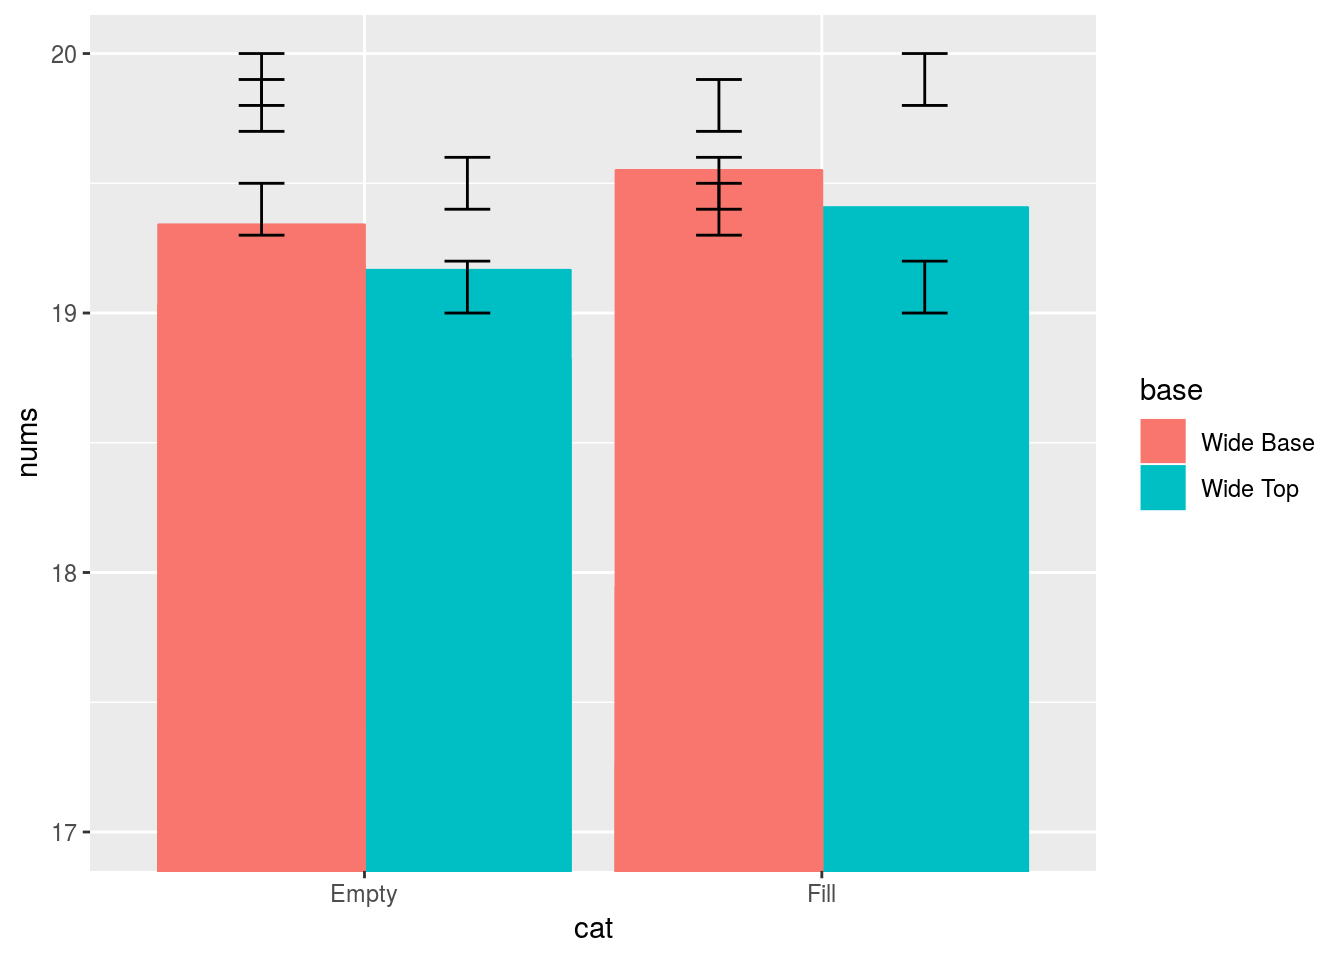
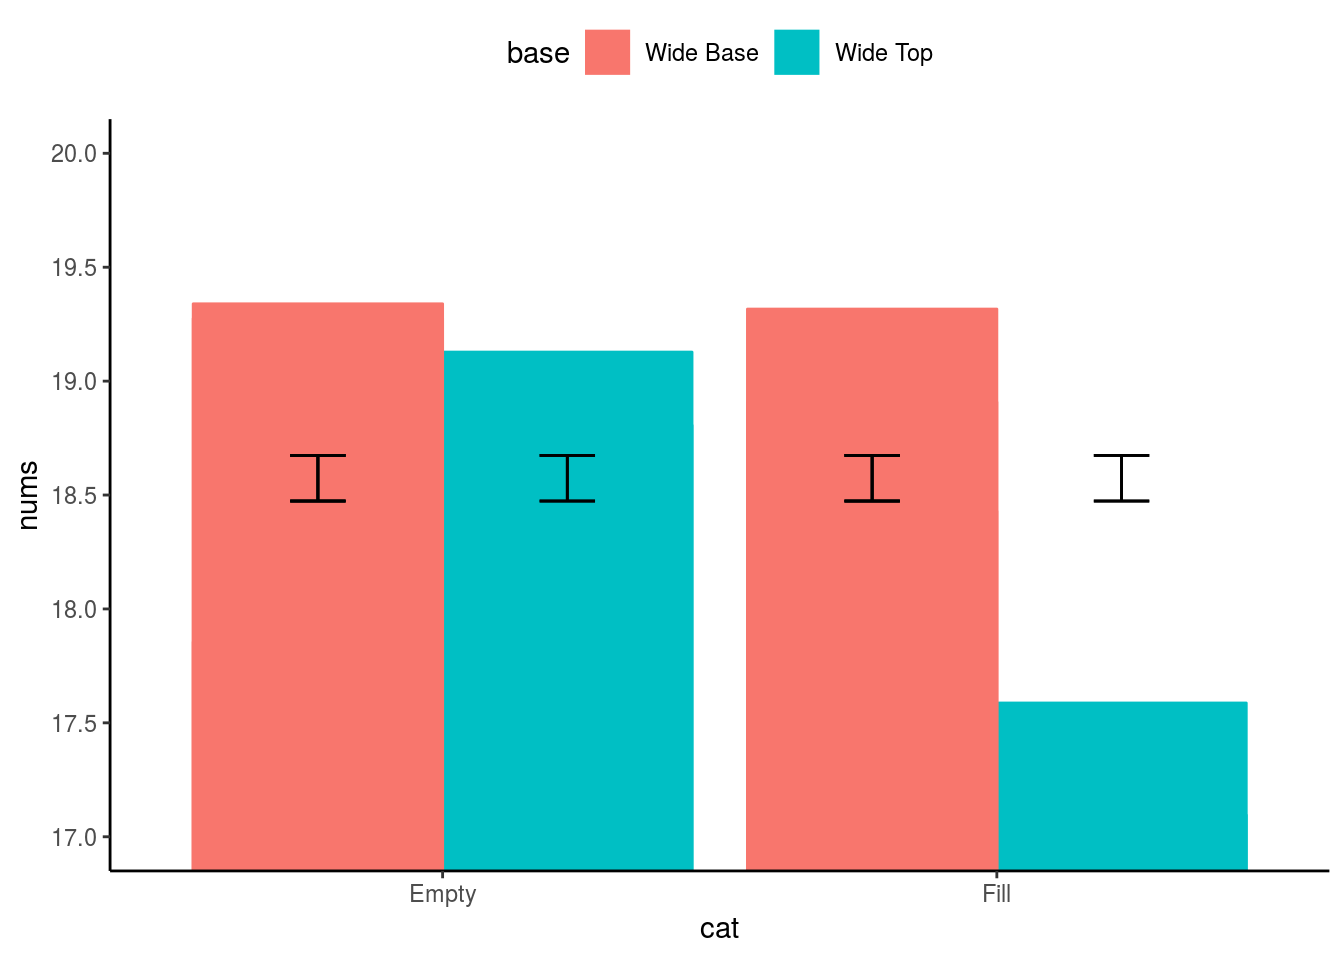
Understanding my error bar mistake--hard to fit the error bars on numbers that are always changing.

diff --git a/docs/Plots.html b/docs/Plots.html
@@ -479,11 +479,13 @@ ggplot(plot_dd,aes(cat,nums,group=base,color=base,fill=base))+geom_bar(stat = &q
 <pre class="r"><code>nums&lt;-runif(10,17,20)
 cat&lt;-as.factor(rep(c(&quot;Fill&quot;,&quot;Empty&quot;),each=5,len=10))
 base&lt;-as.factor(rep(c(&quot;Wide Base&quot;,&quot;Wide Top&quot;),each=3,len=10))
-plot_dd&lt;-data.frame(nums,cat,base)
-f_mean&lt;-rep(c(19.5,19.8,19.4,19.9,19.1),len=10)
-f_se&lt;-rep(c(.1,.1,.1,.1,.1),len=10)
+f_mean&lt;-rep(mean(nums),len=10)
+f_se&lt;-rep(c(.1),len=10)
+plot_dd&lt;-data.frame(nums,cat,base,f_mean,f_se)
 
-ggplot(plot_dd,aes(cat,nums,group=base,color=base,fill=base))+geom_bar(stat = &quot;identity&quot;,position = &quot;dodge&quot;)+coord_cartesian(ylim = c(17,20))+geom_errorbar(aes(ymin=f_mean-f_se,ymax=f_mean+f_se),width=.2,position = position_dodge(width = 0.9),color=&quot;black&quot;)</code></pre>
+e&lt;-ggplot(plot_dd,aes(cat,nums,group=base,color=base,fill=base))+geom_bar(stat = &quot;identity&quot;,position = &quot;dodge&quot;)+coord_cartesian(ylim = c(17,20))+geom_errorbar(aes(ymin=f_mean-f_se,ymax=f_mean+f_se),width=.2,position = position_dodge(width = 0.9),color=&quot;black&quot;)+theme_classic()
+
+e+theme(legend.position = &quot;top&quot;)+scale_y_continuous(breaks = pretty(17:20,n=7))</code></pre>
 <p><img src="Plots_files/figure-html/unnamed-chunk-6-1.png" width="672" /></p>
 </div>
 </div>
